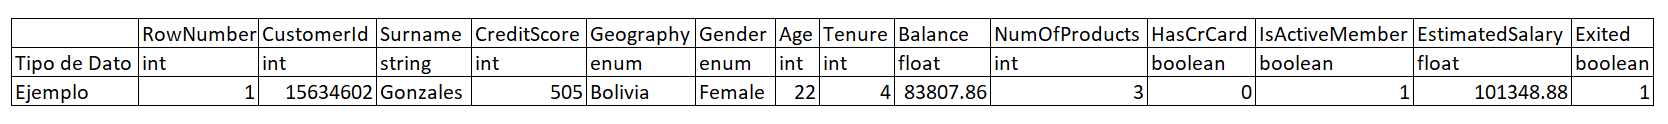
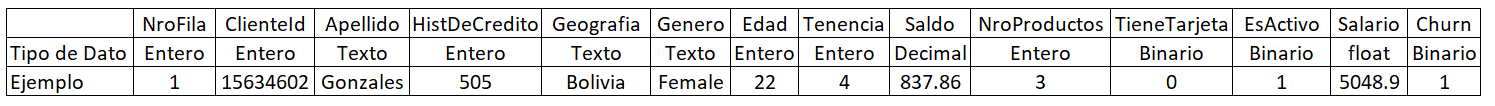
actualizar la orden de validacon de la craga de datos con la nueva iimagen en español, mas entendible}

diff --git a/app.py b/app.py
@@ -21,7 +21,7 @@ st.title('Software de Predicción del Abandono de Clientes')
 
 def cargar_datos():
     st.header("Cargar los Datos")   
-    st.write('En este orden, con esos nombres y con esos tipos de datos, deben estar las columnas')
+    st.write('Con el siguiente orden y con esos tipos de datos, deben estar las columnas del conjunto de datos a introducir:')
     st.image('dataframeExample.png', use_column_width=True)
     uploaded_file = st.file_uploader("Selecciona un archivo CSV con el conjunto de Datos", type=["csv"])
     if uploaded_file is not None:
@@ -288,23 +288,13 @@ def entrenamientoRegresion(cant_top_clientes):
 
         # Crear una gráfica de barras horizontales para visualizar las probabilidades de abandono de los clientes seleccionados con el modelo LR
         plt.figure(figsize=(10, 6))
-
-        # Usar la función barh para crear la gráfica
-        bars = plt.barh(top_clientes_lr['Apellido'] + ' - ' + top_clientes_lr['ClienteId'].astype(str),
-                        top_clientes_lr['Probabilidad_Abandono_LR'],
-                        color='lightcoral')
-
-        # Agregar etiquetas a las barras con el porcentaje de probabilidad
-        for bar, probabilidad in zip(bars, top_clientes_lr['Probabilidad_Abandono_LR']):
-            plt.text(bar.get_width() + 0.01, bar.get_y() + bar.get_height() / 2, f'{probabilidad:.2%}', ha='left', va='center')
-
-        # Añadir etiquetas y título
+        plt.barh(top_clientes_lr['Apellido'] + ' - ' + top_clientes_lr['ClienteId'].astype(str), top_clientes_lr['Probabilidad_Abandono_LR'], color='lightcoral')
         plt.xlabel('Probabilidad de Abandono (LR)')
         plt.ylabel('Clientes')
         plt.title(f'Top {cant_top_clientes} Clientes con Mayor Probabilidad de Abandono (LR)')
 
-        # Mostrar la gráfica
-        plt.show()
+        # Mostrar la gráfica utilizando st.pyplot
+        st.pyplot(plt)
         
 def entrenamientoArboles(cant_top_clientes):
     X_train_preprocessed, X_test_preprocessed, X_train, X_test, y_train, y_test = preprocesamiento()
